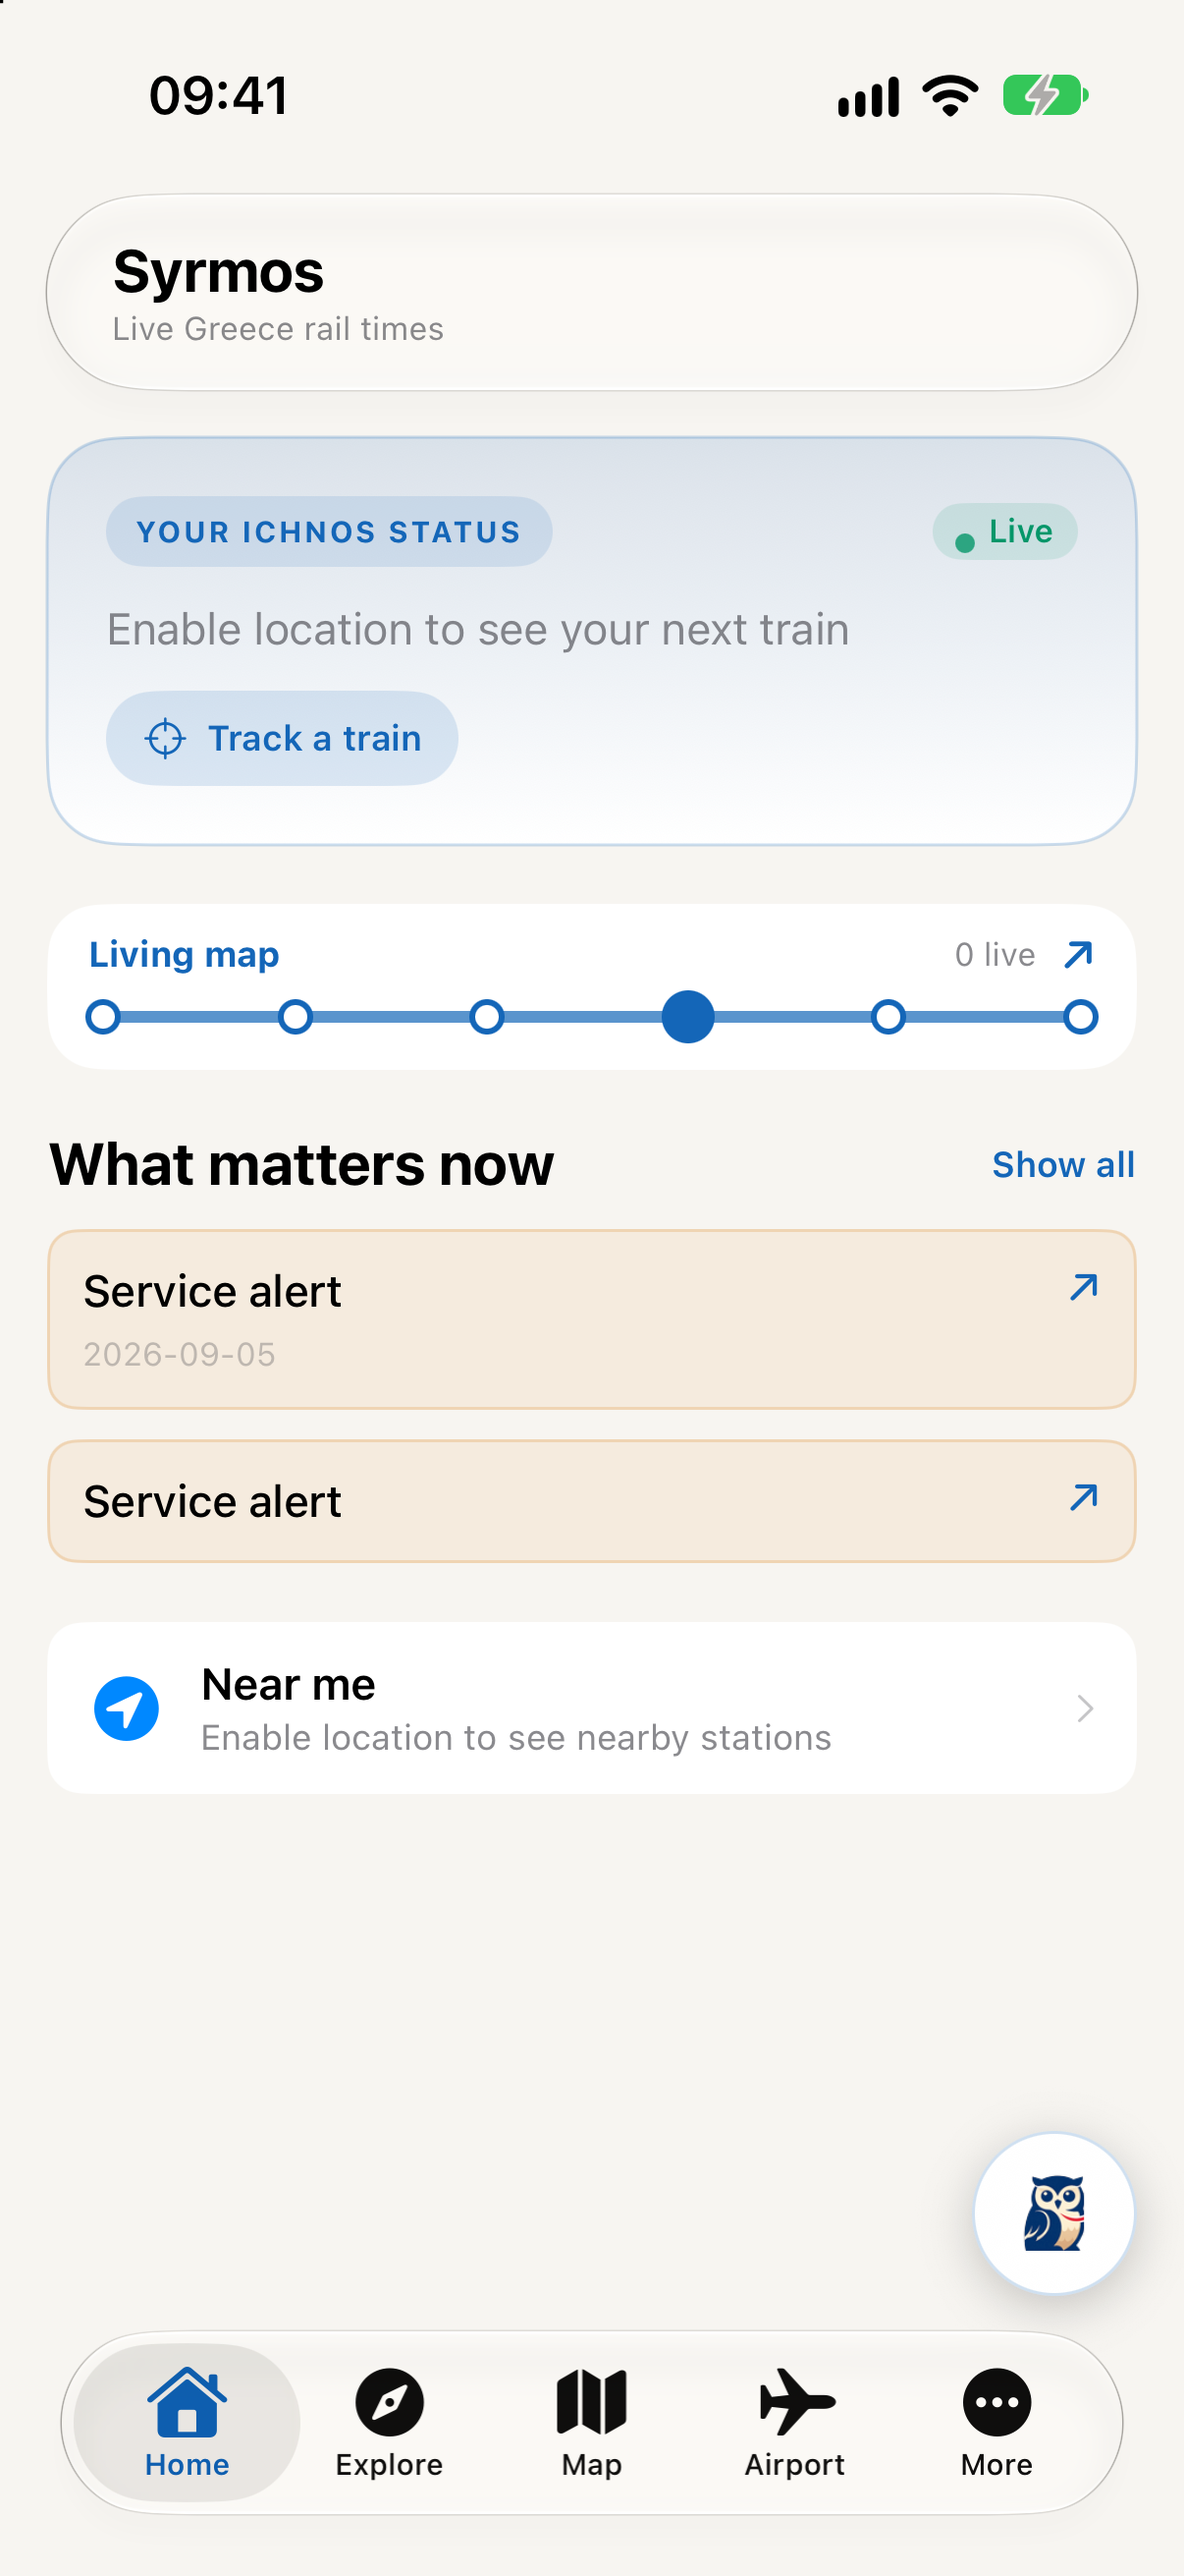
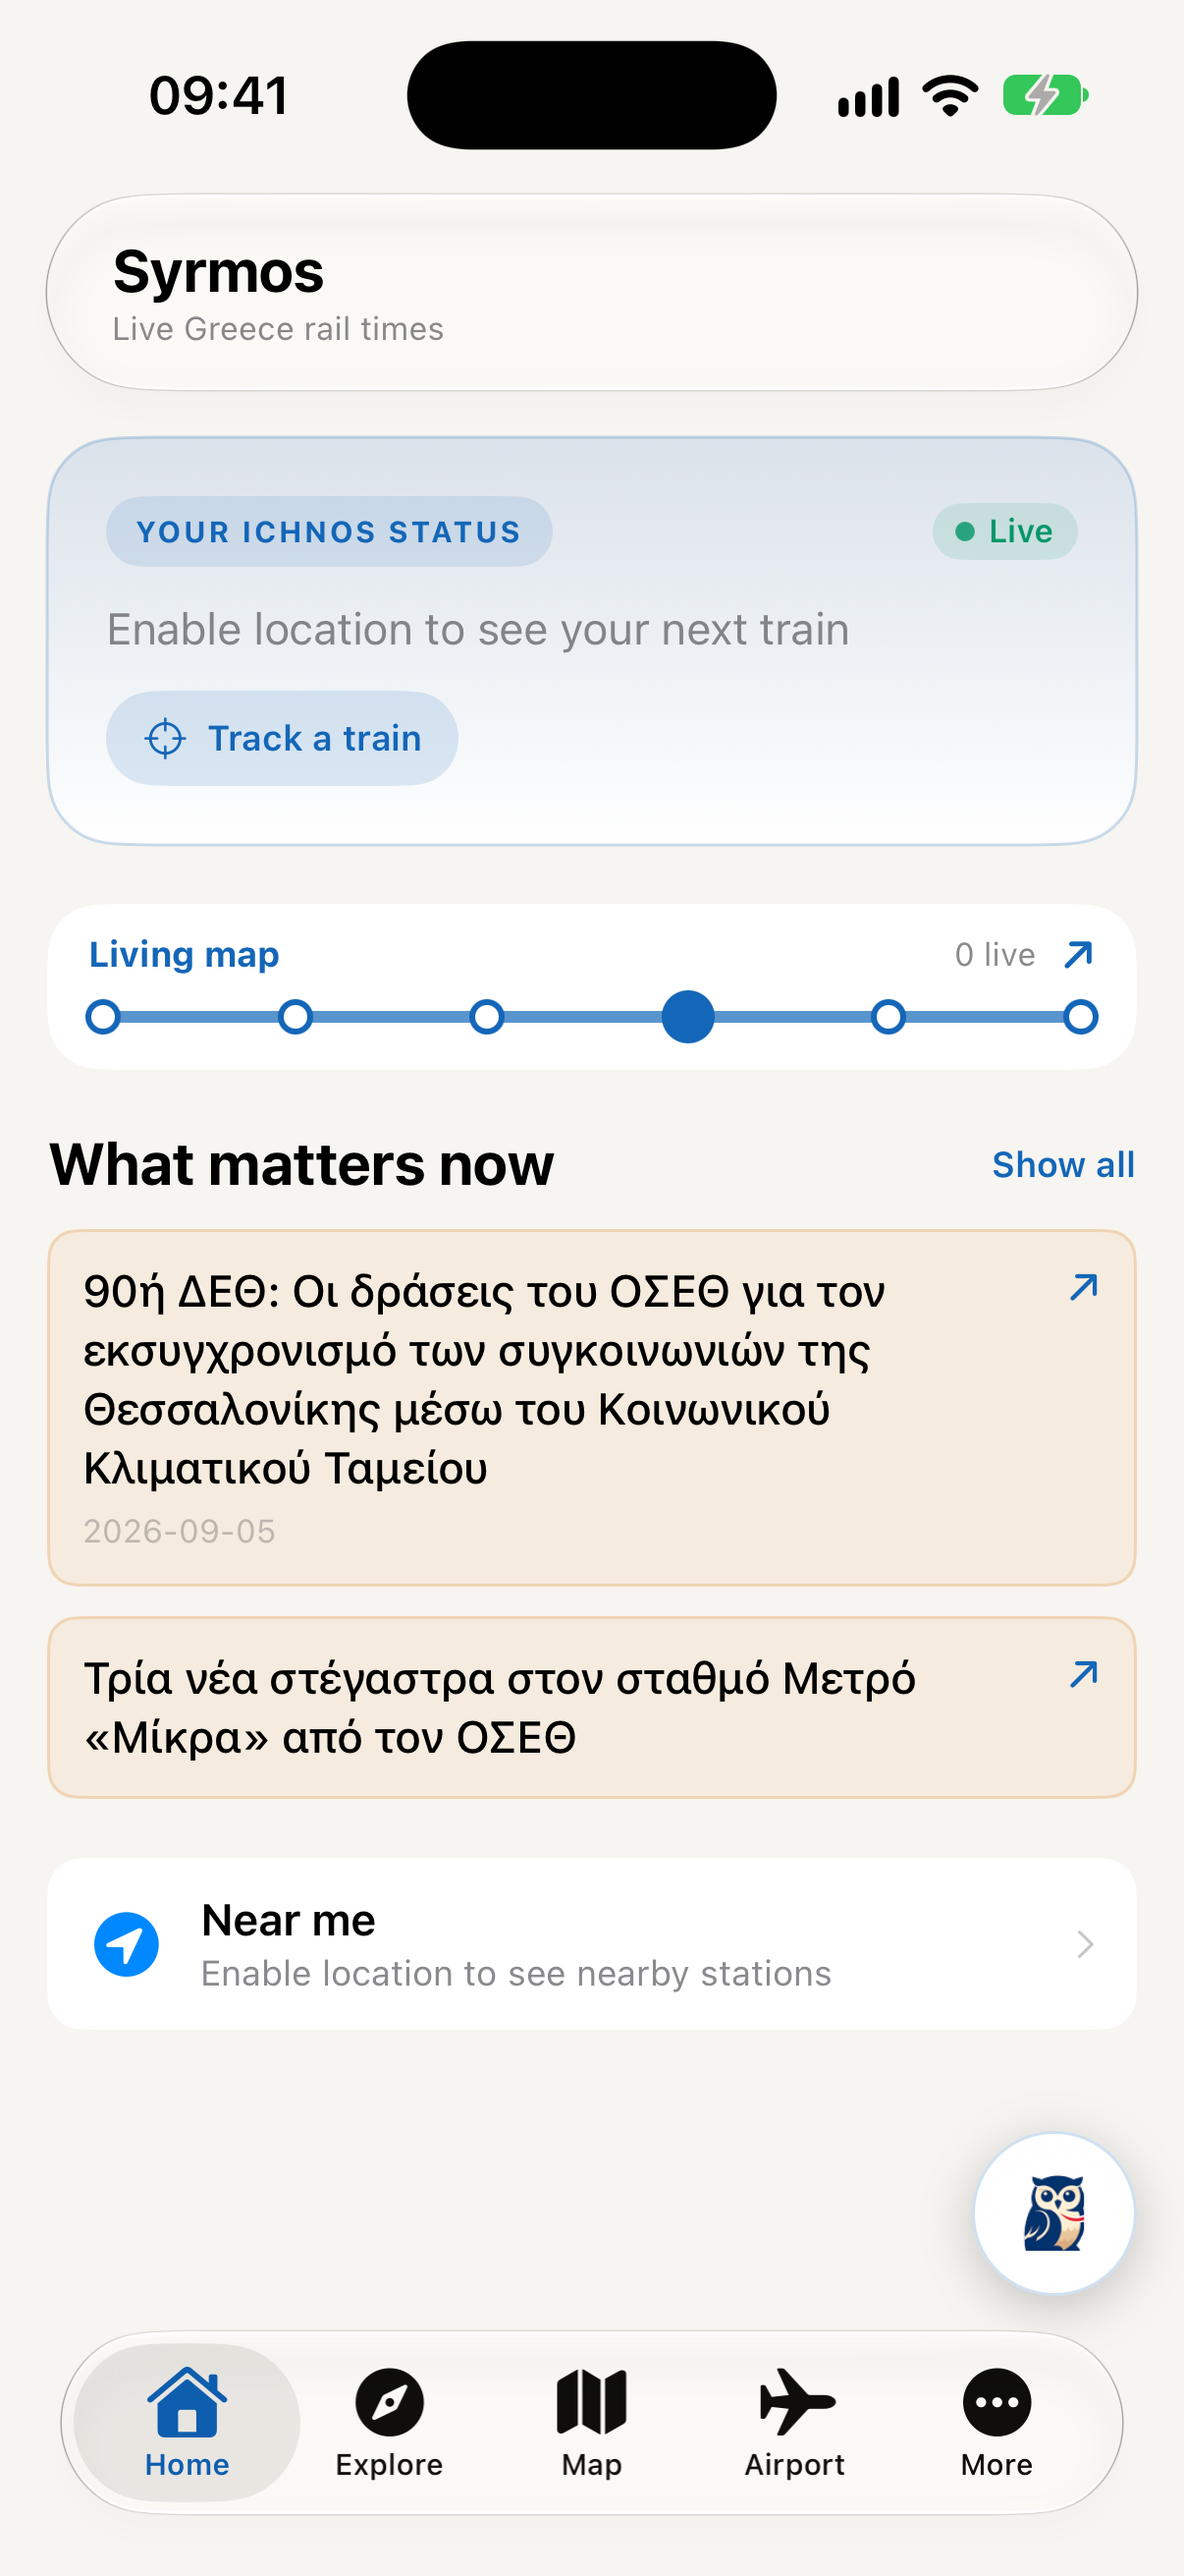
docs(release): retake the S01 baselines against the fixed announcement titles
The two cards that read only 'Service alert' now carry the alerts' real names,
so the S01 light and dark cells are recaptured against the fixed build and
finding 1 is marked fixed with a pointer to the PR that closed it.

diff --git a/docs/screenshots/release-3.0.0/FINDINGS.md b/docs/screenshots/release-3.0.0/FINDINGS.md
@@ -8,7 +8,7 @@ Ordered by severity.
 
 ---
 
-## 1. Announcements are content-free in every non-Greek locale (S01)
+## 1. Announcements are content-free in every non-Greek locale (S01) — FIXED
 
 **Evidence:** `S01-home__C402__light__en__default.png`, `S01-home__C402__dark__en__default.png`
 — "What matters now" shows two cards that read only "Service alert", one with a
@@ -30,13 +30,19 @@ So English, Albanian and Italian users get a placeholder instead of any
 information, on the primary screen, for every announcement. Three of the four
 shipped locales are affected. The Greek locale is fine.
 
-The refusal to show untranslated Greek is a deliberate choice, so the fix is a
-product decision, not a one-line patch: either populate the translations upstream,
-or show the Greek source behind an explicit "Greek only" disclosure. A
-content-free card is the one option that helps nobody.
+**Fixed** in peterdsp/Syrmos#176 by reordering the fallback chain to
+reader's language, then English, then the operator's source wording, then the
+generic label. The S01 captures in this directory have been retaken against the
+fixed build and now show two distinct named alerts; the before-images are the
+first revision of these same files in this PR's history.
 
-**Blocks the locale axis of the gate:** S01/S09 baselines in el/sq/it cannot be
-approved while the card content depends on live upstream translation coverage.
+The fix shows untranslated Greek to a non-Greek reader, which is a deliberate
+trade (an unreadable name beats no name). Marking that text as untranslated in
+the UI is still open.
+
+**No longer blocks the locale axis**, though el/sq/it baselines still depend on
+live upstream translation coverage, so they want the fixture layer under
+`README.md` before they are approved.
 
 ---
 
